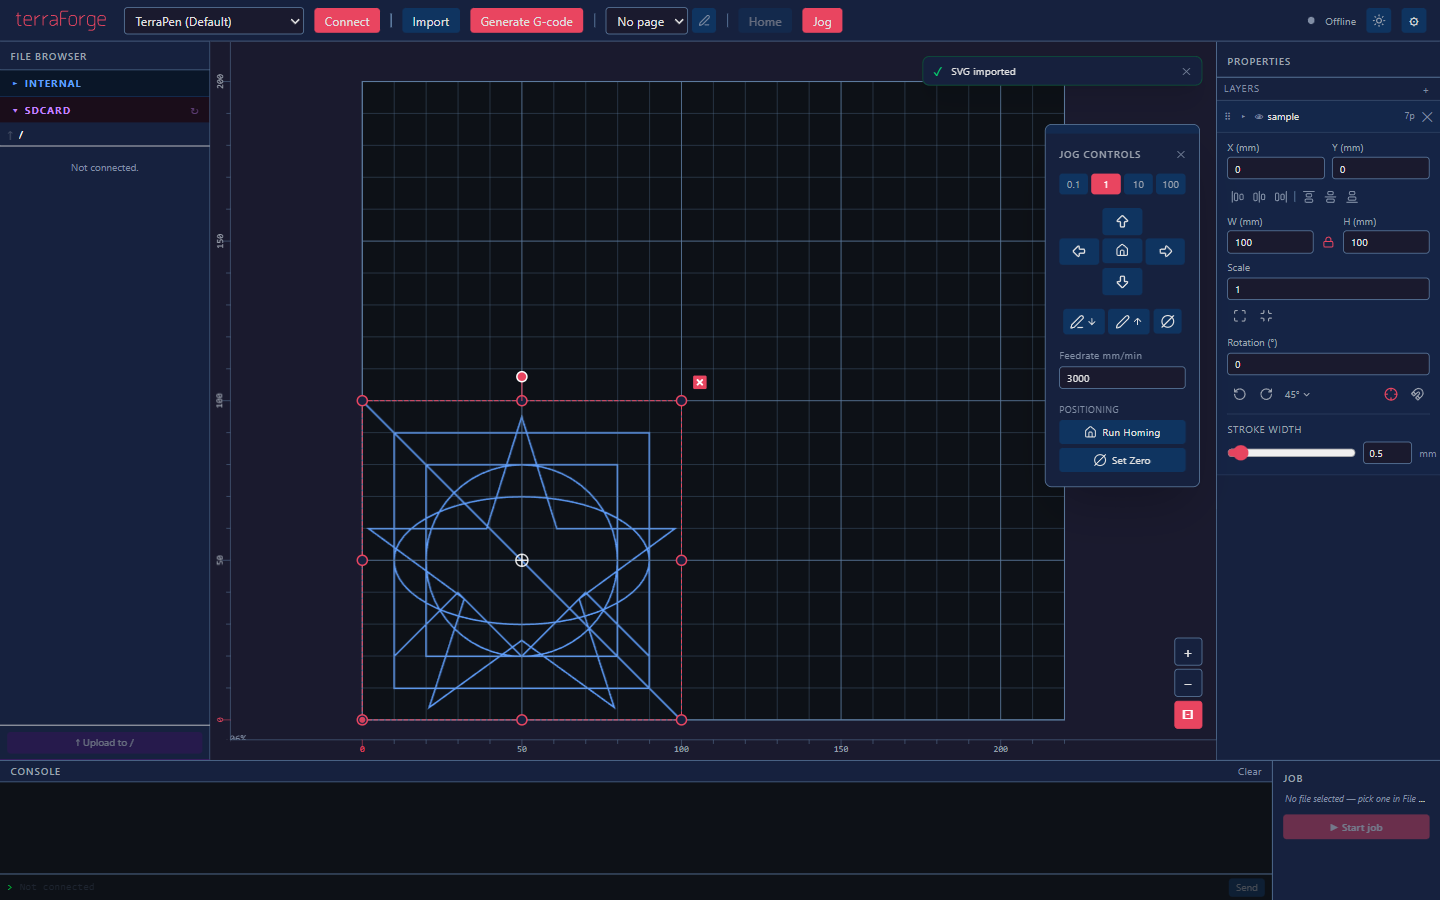
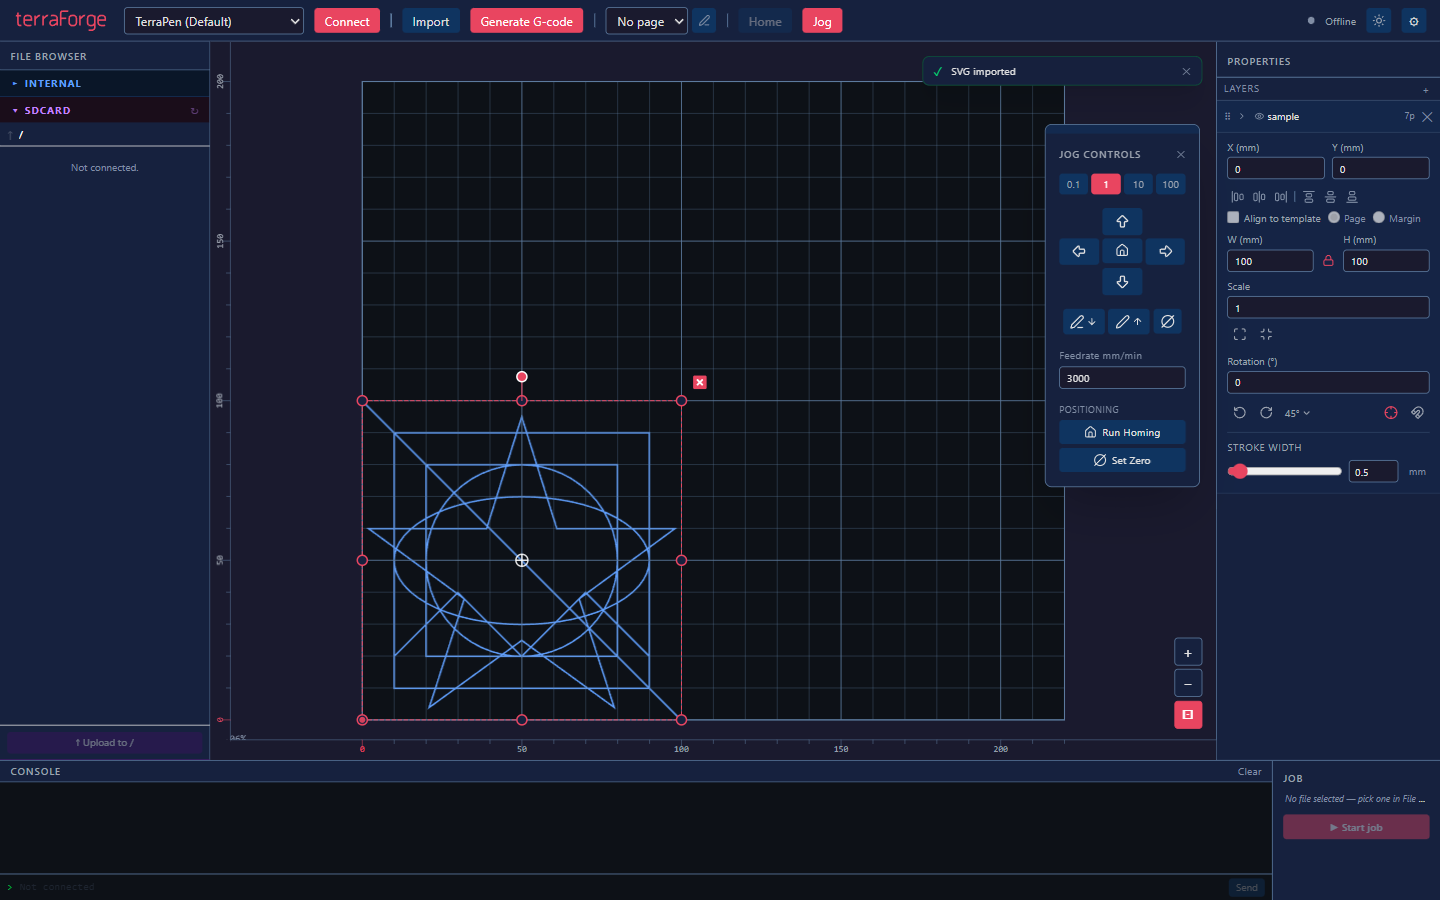
Update docs and screenshots

Changed region(s): [[0.8438, 0.2178, 1.0, 0.5289], [0.0, 0.0, 0.0625, 0.0311], [0.3438, 0.0, 0.375, 0.0311]]

diff --git a/tests/e2e/take-screenshots.spec.ts b/tests/e2e/take-screenshots.spec.ts
@@ -721,13 +721,24 @@ test("22-toast-stack — toast notification during G-code generation", async () 
     .waitFor({ timeout: 5_000 });
 
   // Click Generate (no save / upload needed — just trigger the worker)
-  // Uncheck "Upload to SD card" first so the task completes without an IPC call
+  // Uncheck "Upload to SD card" first so the task completes without an SD-upload IPC call
   const uploadCheckbox = window.locator(
     "label:has-text('Upload to SD card') input[type='checkbox']",
   );
   if (await uploadCheckbox.isChecked()) {
     await uploadCheckbox.uncheck();
   }
+
+  // Ensure "Save to computer" is checked so neitherOutput stays false and the
+  // Generate button remains enabled. Mock the save dialog to return "" (cancel)
+  // so no native dialog appears and no file write is triggered.
+  const saveCheckbox = window.locator(
+    "label:has-text('Save to computer') input[type='checkbox']",
+  );
+  if (!(await saveCheckbox.isChecked())) {
+    await saveCheckbox.check();
+  }
+  await mockIpcInvoke(electronApp, "fs:saveGcodeDialog", "");
 
   const dialogGenerateBtn = window
     .locator("button")

diff --git a/tests/e2e/playwright.screenshots.config.ts b/tests/e2e/playwright.screenshots.config.ts
@@ -1,0 +1,22 @@
+// @ts-check
+import { defineConfig } from "@playwright/test";
+
+/**
+ * Playwright configuration for the screenshot-capture suite only.
+ * Unlike playwright.config.ts, this does NOT ignore take-screenshots.spec.ts.
+ *
+ * Run via:
+ *   npm run doc:screenshots
+ */
+export default defineConfig({
+  testDir: ".",
+  testMatch: "**/take-screenshots.spec.ts",
+  timeout: 120_000,
+  expect: { timeout: 10_000 },
+  retries: 0,
+  workers: 1,
+  reporter: [["list"]],
+  use: {
+    trace: "retain-on-failure",
+  },
+});

diff --git a/docs/terraForge-features.md b/docs/terraForge-features.md
@@ -175,6 +175,7 @@
 - [x] Remove individual paths — ✕ button per path deletes it from the import without removing the whole import
 - [x] **Rotation controls** — numeric angle input in Properties panel; CCW / CW shortcut buttons; ±5° / ±15° / ±45° preset buttons; configurable step-size flyout; rotation snaps to the nearest 0° / 45° / 90° / 135° / 180° / 225° / 270° / 315° preset when within 3° of one
 - [x] **Position (X/Y) inputs** — explicit mm coordinate inputs in Properties panel, clamped to bed bounds; synced with canvas drag
+- [x] **Template-aware alignment controls** — alignment buttons can target either the full machine bed (default) or, when a page template is active, the page boundary / margin boundary; the Properties panel includes an "Align to template" checkbox plus Page/Margin radio selector
 - [x] **Stroke width per import** — configurable pen stroke width in mm; when the import belongs to a layer group the new stroke width is synced across all imports in that group automatically
 - [x] **Centre marker toggle** — checkbox shows/hides a crosshair (+) at the geometric centre of the selected import or toolpath; rendered at screen-constant size so it stays visible at any zoom
 - [x] **Hatch fill controls** — per-import enable/disable checkbox; configurable spacing (mm) and angle (degrees); hatch lines are auto-regenerated when the import is scaled so physical spacing is preserved; hatch paths are included in G-code output as ordinary strokes

diff --git a/docs/terraForge-user-guide.md b/docs/terraForge-user-guide.md
@@ -390,6 +390,16 @@ All position/size fields clamp to the bed boundary automatically.
 
 ![Properties panel with numeric fields visible for a selected import](../docs/resources/12-properties-numeric.png)
 
+### Alignment Controls
+
+The alignment icon row (left/center/right and top/center/bottom) aligns the selected import within a chosen frame:
+
+- **Bed (default):** aligns to the full machine bed extents.
+- **Template mode:** enable **Align to template** to switch alignment to the active page template.
+- **Page / Margin target:** choose **Page** to align to the page rectangle, or **Margin** to align to the inset printable rectangle.
+
+If no page template is selected, **Align to template** is disabled and alignment stays bed-based.
+
 ### Aspect Ratio Lock
 
 The **🔒 padlock** icon between the W and H fields controls aspect ratio:

diff --git a/docs/terraForge-spec.md b/docs/terraForge-spec.md
@@ -492,6 +492,8 @@ Import name (inline rename on double-click)
 
 X/Y position, W/H dimensions, scale, rotation (with +-5/+-15/+-45 degree presets and snap to 45 degree increments)
 
+Alignment controls: left/center/right and top/center/bottom align buttons target machine bed by default; when a page template is active, an "Align to template" checkbox with Page/Margin selector switches alignment bounds to the selected page template rectangle or its margin inset rectangle
+
 Aspect ratio lock (padlock), fit-to-bed, 1:1 reset shortcuts
 
 Per-import visibility toggle; expandable path list; per-path visibility and delete
